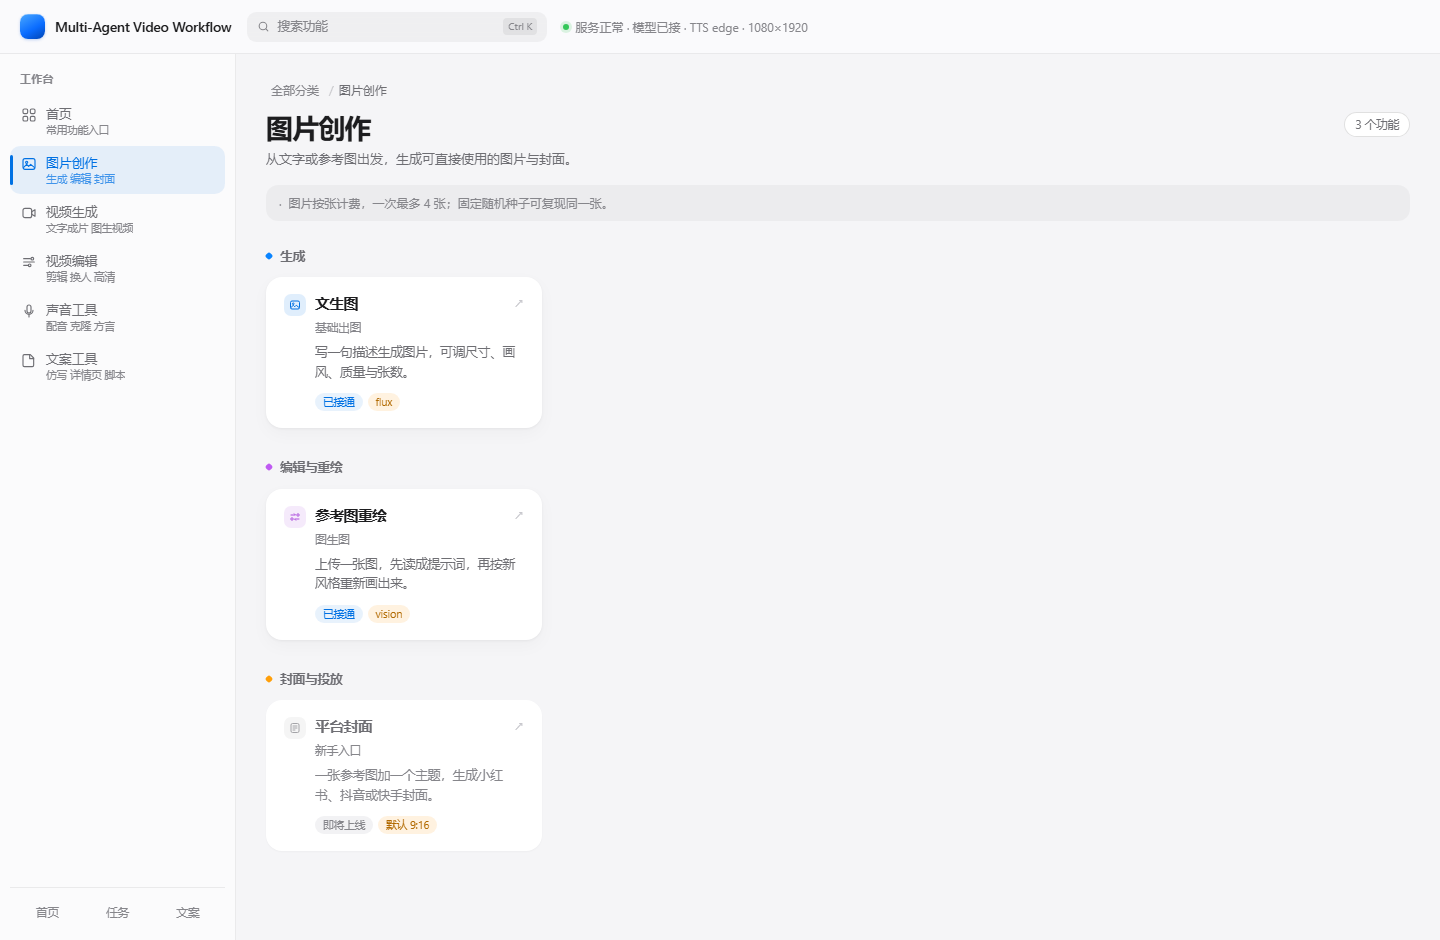
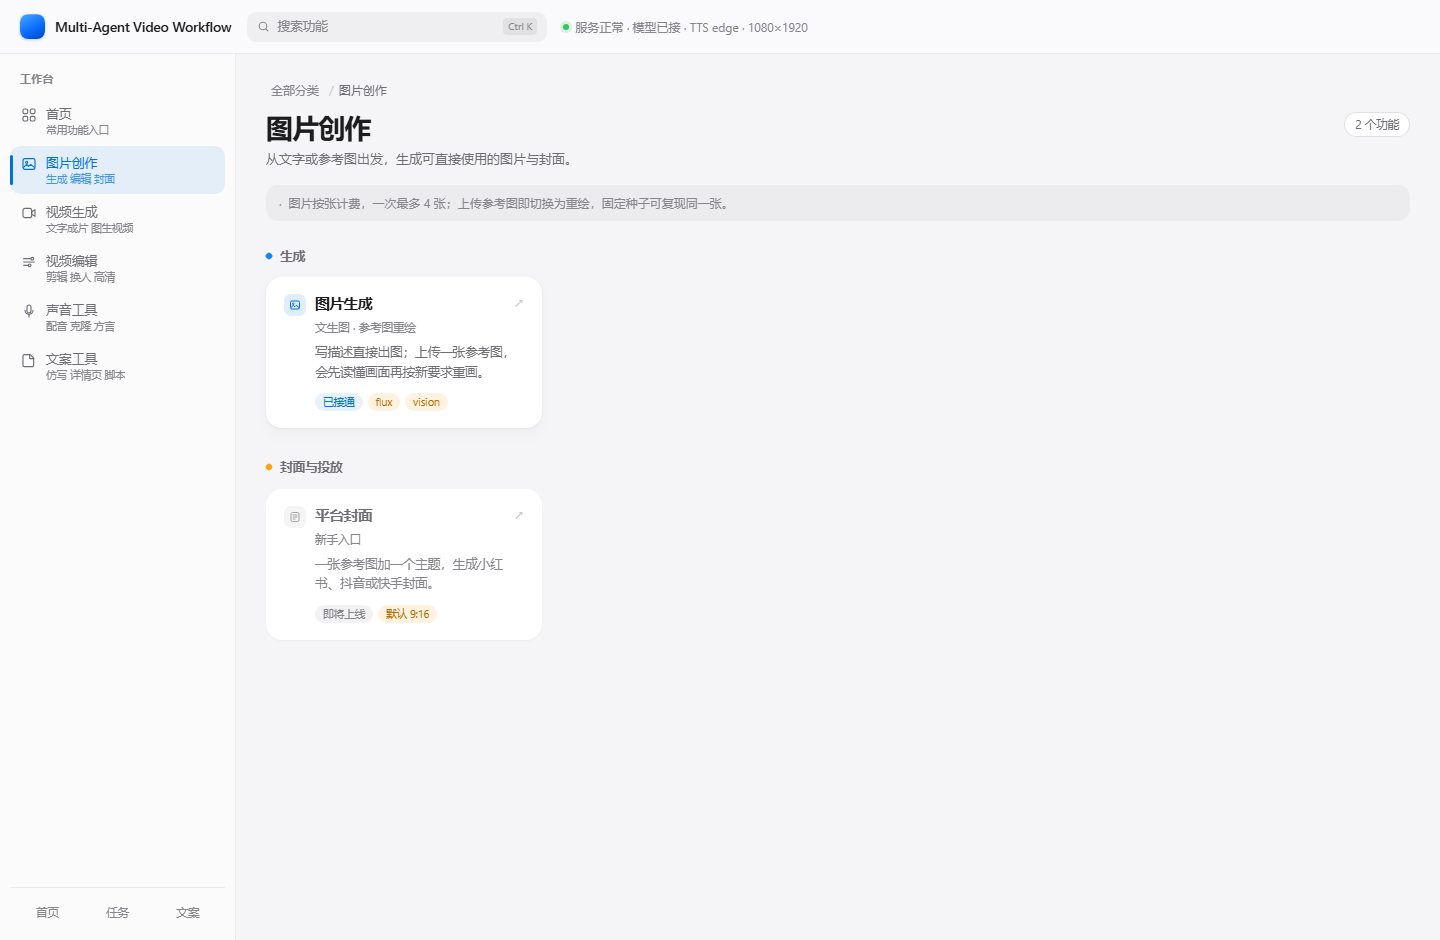
feat(ui): 文生图与参考图重绘合并为「图片生成」，按是否上传参考图自动切换

diff --git a/backend-java/frontend/studio.js b/backend-java/frontend/studio.js
@@ -47,14 +47,9 @@
 
   var TOOLS = {
     'image-generate': {
-      name: '文生图', sub: '基础出图', icon: 'image', ready: true, mode: 'generate', tone: 'blue',
-      desc: '写一句描述生成图片，可调尺寸、画风、质量与张数。',
-      tags: ['已接通', 'flux']
-    },
-    'image-remix': {
-      name: '参考图重绘', sub: '图生图', icon: 'remix', ready: true, mode: 'remix', tone: 'purple',
-      desc: '上传一张图，先读成提示词，再按新风格重新画出来。',
-      tags: ['已接通', 'vision']
+      name: '图片生成', sub: '文生图 · 参考图重绘', icon: 'image', ready: true, mode: 'generate', tone: 'blue',
+      desc: '写描述直接出图；上传一张参考图，会先读懂画面再按新要求重画。',
+      tags: ['已接通', 'flux', 'vision']
     },
     'video-pipeline': {
       name: '智能成片', sub: '新手入口', icon: 'video', ready: true, mode: 'video', tone: 'green',
@@ -125,18 +120,17 @@
       desc: '已经接通的功能排在前面，其余功能陆续开放。',
       notice: '生成结果都会进「历史记录」，图片可直接下载。',
       groups: [
-        { name: '已接通', accent: '#30d158', tools: ['image-generate', 'image-remix', 'video-pipeline'] },
-        { name: '即将上线', accent: '#66666f', tools: ['cover', 'voice-tts', 'subtitle', 'copy-detail'] }
+        { name: '已接通', accent: '#30d158', tools: ['image-generate', 'video-pipeline'] },
+        { name: '即将上线', accent: '#c7c7cc', tools: ['cover', 'voice-tts', 'subtitle', 'copy-detail'] }
       ]
     },
     image: {
       crumb: ['全部分类', '图片创作'],
       title: '图片创作',
       desc: '从文字或参考图出发，生成可直接使用的图片与封面。',
-      notice: '图片按张计费，一次最多 4 张；固定随机种子可复现同一张。',
+      notice: '图片按张计费，一次最多 4 张；上传参考图即切换为重绘，固定种子可复现同一张。',
       groups: [
         { name: '生成', accent: '#0a84ff', tools: ['image-generate'] },
-        { name: '编辑与重绘', accent: '#bf5af2', tools: ['image-remix'] },
         { name: '封面与投放', accent: '#ff9f0a', tools: ['cover'] }
       ]
     },
@@ -331,7 +325,13 @@
     }
   }
 
-  function openTool(toolKey) {
+  // 旧链接兼容：参考图重绘已并入图片生成
+  function normalizeTool(toolKey) {
+    return toolKey === 'image-remix' ? 'image-generate' : toolKey;
+  }
+
+  function openTool(rawKey) {
+    var toolKey = normalizeTool(rawKey);
     var tool = TOOLS[toolKey];
     if (!tool) { return; }
     if (!tool.ready) {
@@ -349,13 +349,12 @@
     el('panel-title').textContent = tool.name;
     el('panel-desc').textContent = tool.desc;
     el('tool-eyebrow').textContent = tool.name;
-    var isRemix = tool.mode === 'remix';
-    el('ref-group').hidden = !isRemix;
-    el('f-prompt').placeholder = isRemix
+    el('ref-group').hidden = false;
+    el('f-prompt').placeholder = state.reference
       ? '想怎么改，例如：换成秋天傍晚的氛围，保留人物和构图'
       : '描述你想要的画面，例如：清晨书桌上摊开的笔记本与一杯咖啡，暖光侧照，浅景深';
-    el('btn-generate').textContent = isRemix ? '重绘图片' : '生成图片';
-    renderSamples(isRemix);
+    renderSamples();
+    updatePromptMode();
     switchView('studio');
   }
 
@@ -432,11 +431,22 @@
     ]
   };
 
-  function renderSamples(isRemix) {
-    var list = SAMPLES[isRemix ? 'remix' : 'generate'];
+  function renderSamples() {
+    var list = state.reference ? SAMPLES.remix : SAMPLES.generate;
     el('f-samples').innerHTML = list.map(function (text) {
       return '<button class="sample-chip" data-sample="' + esc(text) + '">' + esc(text) + '</button>';
     }).join('');
+  }
+
+  // 参考图决定当前是"文生图"还是"按图重绘"，提示词与按钮都跟着变
+  function updatePromptMode() {
+    var hasRef = !!state.reference;
+    var button = el('btn-generate');
+    if (!state.busy) { button.textContent = hasRef ? '按参考图重绘' : '生成图片'; }
+    el('f-prompt').placeholder = hasRef
+      ? '想怎么改，例如：换成秋天傍晚的氛围，保留人物和构图'
+      : '描述你想要的画面，例如：清晨书桌上摊开的笔记本与一杯咖啡，暖光侧照，浅景深';
+    renderSamples();
   }
 
   function loadOptions() {
@@ -517,6 +527,7 @@
         el('ref-actions').hidden = false;
         el('ref-note').hidden = true;
         el('gen-status').textContent = '参考图已就绪，生成时会先识别再重绘';
+        updatePromptMode();
       })
       .catch(function (err) {
         el('gen-status').textContent = '';
@@ -534,6 +545,7 @@
     el('ref-note').hidden = true;
     el('f-file').value = '';
     el('gen-status').textContent = '';
+    updatePromptMode();
   }
 
   function analyzeReference() {
@@ -569,10 +581,6 @@
       el('f-prompt').focus();
       return;
     }
-    if (state.tool === 'image-remix' && !state.reference) {
-      toast('参考图重绘需要先上传一张图', true);
-      return;
-    }
     var body = {
       prompt: prompt,
       negative_prompt: (el('f-negative').value || '').trim(),
@@ -582,7 +590,7 @@
       count: state.count,
       model: state.model,
       seed: Number(el('f-seed').value) || 0,
-      reference: state.tool === 'image-remix' ? state.reference : ''
+      reference: state.reference
     };
 
     state.busy = true;
@@ -607,7 +615,7 @@
       .then(function () {
         state.busy = false;
         button.disabled = false;
-        button.textContent = state.tool === 'image-remix' ? '重绘图片' : '生成图片';
+        updatePromptMode();
         el('gen-status').textContent = '';
       });
   }
@@ -783,7 +791,7 @@
     });
 
     renderCategory('home');
-    renderSamples(false);
+    renderSamples();
     loadOptions();
     loadHistory();
 

diff --git a/backend-java/frontend/index.html b/backend-java/frontend/index.html
@@ -118,7 +118,7 @@
         </div>
 
         <div class="field-block" id="ref-group">
-          <div class="field-label">参考图 <span class="field-opt">拖进来即可</span></div>
+          <div class="field-label">参考图 <span class="field-opt">可选 · 上传后按图重绘</span></div>
           <div class="dropzone" id="dropzone">
             <input type="file" id="f-file" accept="image/*" hidden />
             <div class="dropzone-inner" id="dropzone-inner">
